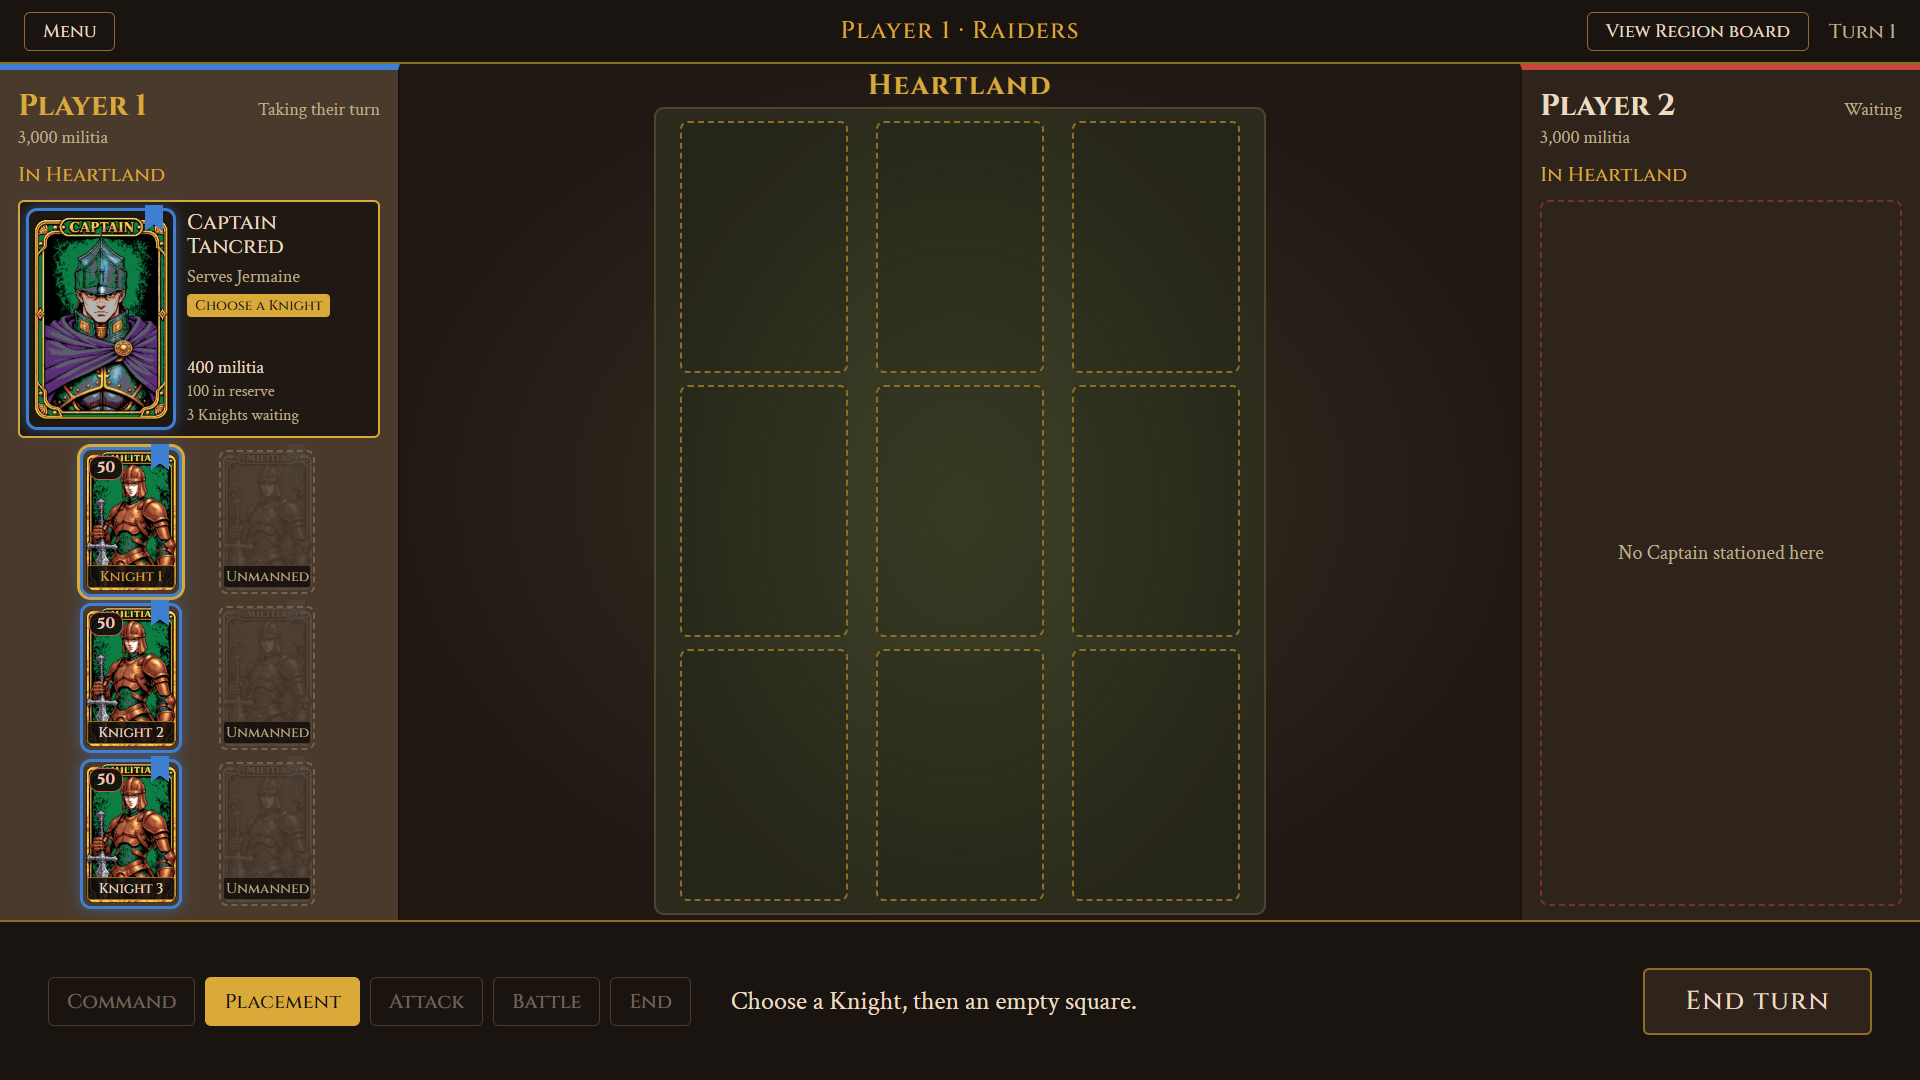
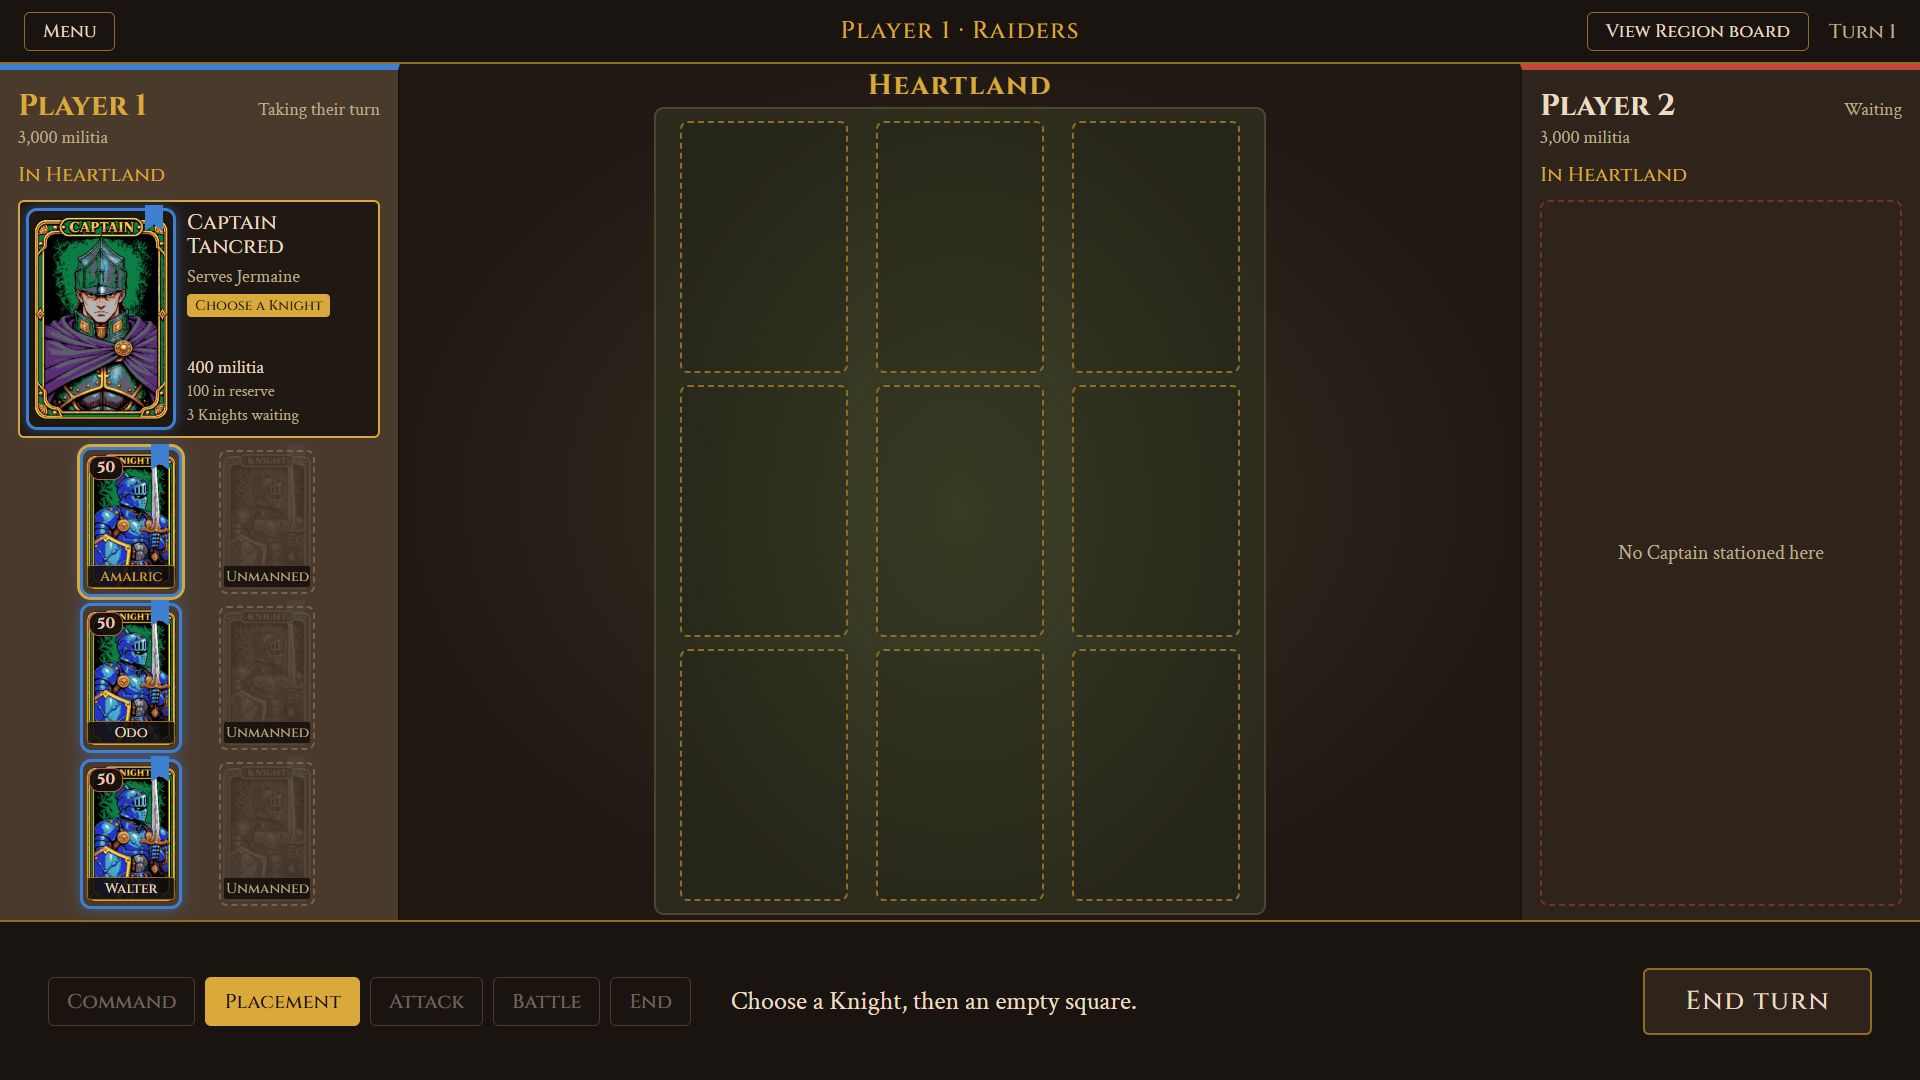
Add Knight cards and names
- Player 1's Knights use the blue Knight card; the enemy's use it with red
  armor and a crimson frame, mirrored to face inward, banner unmirrored
- Every Knight has a placeholder name (Sir Gareth, Sir Sorn...) shown on
  cards, panels, attack preview, battle messages and the turn summary
- In battle the two Knights always face each other, whichever side attacks
- Design templates refreshed

Changed region(s): [[0.0312, 0.3972, 0.0938, 0.825]]

diff --git a/src/ui/battle/BattleView.tsx b/src/ui/battle/BattleView.tsx
@@ -1,7 +1,7 @@
 import { useEffect, useState } from 'react';
 import { availableSergeants } from '../../engine/queries';
 import { KNIGHT_HP, type Clash, type Duel, type DuelRole, type MatchState, type Sergeant } from '../../engine/state';
-import { PLAYER_NAMES, REGION_NAMES, TACTIC_NAMES, captainName } from '../../data/names';
+import { PLAYER_NAMES, REGION_NAMES, TACTIC_NAMES, captainName, knightArtFacing, knightName } from '../../data/names';
 import { Card } from '../components/Card';
 import { SergeantBox, TacticLegend, type SergeantBoxState } from '../components/SergeantBox';
 import { TacticIcon } from '../components/TacticIcon';
@@ -152,10 +152,10 @@ function Combatant({ match, duel, role, upTo, current, options, onPick }: Combat
 
       <div className="combatant__body">
         <div className={`combatant__card${hp <= 0 ? ' combatant__card--fallen' : ''}`}>
-          <Card art="militia" size="detail" owner={side.player} />
+          <Card art={knightArtFacing(side.player, role === 'attacker' ? 'right' : 'left')} size="detail" owner={side.player} />
         </div>
         <div className="combatant__info">
-          <span className="combatant__name">Knight {knight.number}</span>
+          <span className="combatant__name">{knightName(knight)}</span>
           <span className="combatant__sub">
             {PLAYER_NAMES[side.player]} · {captainName(captain)}
           </span>
@@ -190,7 +190,7 @@ function CenterPanel({ match, duel, phase, clash, clashNumber, enemyReady, onRet
     return (
       <div className="battle-msg battle-msg--intro">
         <span className="battle-msg__big">
-          Knight {attacker.number} attacks Knight {defender.number}!
+          {knightName(attacker)} attacks {knightName(defender)}!
         </span>
         <span className="battle-msg__small">
           {PLAYER_NAMES[duel.attacker.player]} against {PLAYER_NAMES[duel.defender.player]}
@@ -219,7 +219,7 @@ function CenterPanel({ match, duel, phase, clash, clashNumber, enemyReady, onRet
           <RevealedPick pick={clash.defender} winner={phase === 'result' && clash.winner === 'defender'} />
         </div>
         <span className={`battle-msg__small${phase === 'result' ? ' battle-msg__verdict' : ''}`}>
-          {phase === 'reveal' ? 'Revealing…' : verdict(clash, attacker.number, defender.number)}
+          {phase === 'reveal' ? 'Revealing…' : verdict(clash, knightName(attacker), knightName(defender))}
         </span>
       </div>
     );
@@ -234,14 +234,14 @@ function CenterPanel({ match, duel, phase, clash, clashNumber, enemyReady, onRet
       <div className="battle-msg battle-msg--over">
         <span className="battle-msg__big">
           {winnerKnight
-            ? `${PLAYER_NAMES[duel[winner!].player]}’s Knight ${winnerKnight.number} wins!`
+            ? `${knightName(winnerKnight)} wins!`
             : 'The battle ends even'}
         </span>
         <span className="battle-msg__small">
           {loserKnight
             ? loserFate === 'killed'
-              ? `${PLAYER_NAMES[loserSide.player]}’s Knight ${loserKnight.number} has fallen.`
-              : `${PLAYER_NAMES[loserSide.player]}’s Knight ${loserKnight.number} retreats with ${loserKnight.hp} HP.`
+              ? `${PLAYER_NAMES[loserSide.player]}’s ${knightName(loserKnight)} has fallen.`
+              : `${PLAYER_NAMES[loserSide.player]}’s ${knightName(loserKnight)} retreats with ${loserKnight.hp} HP.`
             : 'The defender holds; both Knights keep their squares.'}
         </span>
         <button className="btn btn--primary" onClick={onReturn} autoFocus>
@@ -271,8 +271,8 @@ function RevealedPick({ pick, winner }: { pick: Clash['attacker']; winner: boole
   );
 }
 
-function verdict(clash: Clash, attackerNumber: number, defenderNumber: number): string {
-  const target = clash.winner === 'attacker' ? `Knight ${defenderNumber}` : `Knight ${attackerNumber}`;
+function verdict(clash: Clash, attackerName: string, defenderName: string): string {
+  const target = clash.winner === 'attacker' ? defenderName : attackerName;
   if (clash.winner === 'tie') {
     return `Both sent ${TACTIC_NAMES[clash.attacker!.tactic]}: each Sergeant loses half their men.`;
   }

diff --git a/src/data/names.ts b/src/data/names.ts
@@ -1,5 +1,5 @@
 // Display names. Placeholder wording until factions and the Muster screen exist.
-import type { Captain, LordClass, PlayerId, RegionIndex, Tactic } from '../engine/state';
+import type { Captain, Knight, LordClass, PlayerId, RegionIndex, Tactic } from '../engine/state';
 import type { ArtId } from './artCatalog';
 
 export const PLAYER_NAMES: Record<PlayerId, string> = {
@@ -95,8 +95,52 @@ export const TACTIC_NAMES: Record<Tactic, string> = {
   counter: 'Counter',
 };
 
-export function knightName(number: number): string {
-  return `Knight ${number}`;
+/**
+ * Placeholder Knight names: 36 per side, one per Knight slot, in
+ * Army, Garrison, Raiders order (Captain I's six, then Captain II's six).
+ */
+const KNIGHT_NAMES: Record<PlayerId, string[]> = {
+  p1: [
+    'Gareth', 'Percival', 'Tristan', 'Gawain', 'Bedivere', 'Galahad',
+    'Bors', 'Lionel', 'Ector', 'Lamorak', 'Pelleas', 'Geraint',
+    'Yvain', 'Erec', 'Owain', 'Caradoc', 'Dinadan', 'Elyan',
+    'Gaheris', 'Hugh', 'Raymond', 'Bohemond', 'Guy', 'Reynald',
+    'Amalric', 'Odo', 'Walter', 'Hubert', 'Giles', 'Aymer',
+    'Roland', 'Oliver', 'Turpin', 'Ogier', 'Renaud', 'Thierry',
+  ],
+  p2: [
+    'Vargus', 'Morvane', 'Thrax', 'Dravic', 'Skarn', 'Vorth',
+    'Grimald', 'Belzor', 'Kazrik', 'Zoltan', 'Malakai', 'Ravik',
+    'Sorn', 'Vex', 'Hargrim', 'Torvald', 'Brakka', 'Drogan',
+    'Kael', 'Murdoc', 'Szar', 'Varn', 'Gorvath', 'Rask',
+    'Zarek', 'Ostrik', 'Fenrik', 'Haldor', 'Krone', 'Vasko',
+    'Grendel', 'Tarvos', 'Mordrek', 'Scathe', 'Ulgar', 'Kresh',
+  ],
+};
+
+const LORD_ORDER: LordClass[] = ['army', 'garrison', 'raiders'];
+
+/** A Knight's own name, e.g. "Gareth". Captain ids look like "p1-army-1". */
+export function knightPersonalName(knight: Pick<Knight, 'owner' | 'captainId' | 'number'>): string {
+  const [, lord, rank] = knight.captainId.split('-');
+  const index = LORD_ORDER.indexOf(lord as LordClass) * 12 + (Number(rank) - 1) * 6 + (knight.number - 1);
+  return KNIGHT_NAMES[knight.owner][index] ?? `Knight ${knight.number}`;
+}
+
+/** "Sir Gareth" */
+export function knightName(knight: Pick<Knight, 'owner' | 'captainId' | 'number'>): string {
+  return `Sir ${knightPersonalName(knight)}`;
+}
+
+/** Player 1's Knights share the blue Knight card; the enemy's share a mirrored red one. */
+export function knightArt(owner: PlayerId): ArtId {
+  return owner === 'p1' ? 'knight' : 'enemyKnight';
+}
+
+/** Knight art facing a given direction, for battles where either side may stand on the left. */
+export function knightArtFacing(owner: PlayerId, facing: 'left' | 'right'): ArtId {
+  if (owner === 'p1') return facing === 'right' ? 'knight' : 'knightFacingLeft';
+  return facing === 'left' ? 'enemyKnight' : 'enemyKnightFacingRight';
 }
 
 export function formatMilitia(n: number): string {

diff --git a/src/ui/campaign/CompanyView.tsx b/src/ui/campaign/CompanyView.tsx
@@ -1,6 +1,15 @@
 import { captainInRegion, captainMilitia, knightsOf, reserveKnights } from '../../engine/queries';
 import type { Knight, MatchState, PlayerId, RegionIndex } from '../../engine/state';
-import { REGION_NAMES, captainArt, captainName, formatMilitia, lordPersona } from '../../data/names';
+import {
+  REGION_NAMES,
+  captainArt,
+  captainName,
+  formatMilitia,
+  knightArt,
+  knightName,
+  knightPersonalName,
+  lordPersona,
+} from '../../data/names';
 import { Card } from '../components/Card';
 import './companyView.css';
 
@@ -13,7 +22,7 @@ interface CompanyViewProps {
 }
 
 const SLOT_LABEL: Record<Knight['status'], (k: Knight) => string> = {
-  ready: (k) => `Knight ${k.number}`,
+  ready: (k) => knightPersonalName(k),
   fielded: () => 'Fielded',
   unmanned: () => 'Unmanned',
   dead: () => 'Fallen',
@@ -78,9 +87,9 @@ export function CompanyView({ match, player, region, selectedKnightId, onSelectK
                 className={classes}
                 disabled={!pickable}
                 onClick={() => onSelectKnight(knight.id)}
-                aria-label={`Knight ${knight.number}: ${SLOT_LABEL[knight.status](knight)}${alive ? `, ${knight.hp} HP` : ''}`}
+                aria-label={`${knightName(knight)}: ${SLOT_LABEL[knight.status](knight)}${alive ? `, ${knight.hp} HP` : ''}`}
               >
-                <Card art="militia" size="company" owner={player}>
+                <Card art={knightArt(player)} size="company" owner={player}>
                   {alive && <span className="hp-badge">{knight.hp}</span>}
                   <span className="knight-slot__label">{SLOT_LABEL[knight.status](knight)}</span>
                 </Card>

diff --git a/src/ui/campaign/RegionView.tsx b/src/ui/campaign/RegionView.tsx
@@ -1,6 +1,6 @@
 import { attackTargets, knightAt, legalSquares } from '../../engine/queries';
 import { SQUARES, type MatchState, type RegionIndex, type SquareIndex } from '../../engine/state';
-import { PLAYER_NAMES, REGION_NAMES } from '../../data/names';
+import { PLAYER_NAMES, REGION_NAMES, knightArt, knightName, knightPersonalName } from '../../data/names';
 import { Card } from '../components/Card';
 import './regionView.css';
 
@@ -42,7 +42,7 @@ export function RegionView({ match, region, selectedKnightId, onPlaceKnight, onC
             .filter(Boolean)
             .join(' ');
           const label = knight
-            ? `Knight ${knight.number} of ${PLAYER_NAMES[knight.owner]}, ${knight.hp} HP${isTarget ? ', attack' : ''}`
+            ? `${knightName(knight)} of ${PLAYER_NAMES[knight.owner]}, ${knight.hp} HP${isTarget ? ', attack' : ''}`
             : isLegal
               ? 'Place Knight here'
               : 'Empty square';
@@ -55,9 +55,9 @@ export function RegionView({ match, region, selectedKnightId, onPlaceKnight, onC
               aria-label={label}
             >
               {knight && (
-                <Card art="militia" size="field" owner={knight.owner}>
+                <Card art={knightArt(knight.owner)} size="field" owner={knight.owner}>
                   <span className="hp-badge">{knight.hp}</span>
-                  <span className="knight-plate">Knight {knight.number}</span>
+                  <span className="knight-plate">{knightPersonalName(knight)}</span>
                   {isTarget && <span className="attack-marker">Attack</span>}
                 </Card>
               )}

diff --git a/src/data/artCatalog.ts b/src/data/artCatalog.ts
@@ -5,6 +5,10 @@ import nevadius from '../assets/cards/lords/nevadius.png';
 import enemyLord from '../assets/cards/lords/enemy-lord.png';
 import captain from '../assets/cards/captains/captain.png';
 import enemyCaptain from '../assets/cards/captains/enemy-captain.png';
+import knight from '../assets/cards/knights/knight.png';
+import enemyKnight from '../assets/cards/knights/enemy-knight.png';
+import knightFacingLeft from '../assets/cards/knights/knight-facing-left.png';
+import enemyKnightFacingRight from '../assets/cards/knights/enemy-knight-facing-right.png';
 
 /**
  * Every card image the game knows about. Code refers to art by id, never by
@@ -31,6 +35,12 @@ export const artCatalog = {
   captain: { src: captain, face: { x: 50, y: 40, zoom: 3.4 } },
   /** Recolored crimson and mirrored to face inward from the enemy side. */
   enemyCaptain: { src: enemyCaptain, face: { x: 39, y: 40, zoom: 3.4 } },
+  knight: { src: knight, face: { x: 51, y: 24, zoom: 3.4 } },
+  /** Recolored (red armor, crimson frame) and mirrored to face inward from the enemy side. */
+  enemyKnight: { src: enemyKnight, face: { x: 49, y: 24, zoom: 3.4 } },
+  /** Facing variants, so Knights face each other in battle whichever side attacks. */
+  knightFacingLeft: { src: knightFacingLeft, face: { x: 49, y: 24, zoom: 3.4 } },
+  enemyKnightFacingRight: { src: enemyKnightFacingRight, face: { x: 51, y: 24, zoom: 3.4 } },
 } satisfies Record<string, ArtEntry>;
 
 export type ArtId = keyof typeof artCatalog;

diff --git a/src/ui/battle/AttackPreview.tsx b/src/ui/battle/AttackPreview.tsx
@@ -1,5 +1,5 @@
 import type { Knight, MatchState } from '../../engine/state';
-import { PLAYER_NAMES, captainName } from '../../data/names';
+import { PLAYER_NAMES, captainName, knightArt, knightName } from '../../data/names';
 import { sergeantMilitia } from '../../engine/queries';
 import { Card } from '../components/Card';
 import { SergeantBox, TacticLegend } from '../components/SergeantBox';
@@ -53,9 +53,9 @@ function KnightSummary({ match, knight, role }: { match: MatchState; knight: Kni
     <div className={`knight-summary knight-summary--${knight.owner}`}>
       <span className="knight-summary__role">{role}</span>
       <div className="knight-summary__top">
-        <Card art="militia" size="roster" owner={knight.owner} />
+        <Card art={knightArt(knight.owner)} size="roster" owner={knight.owner} />
         <div className="knight-summary__info">
-          <h3 className="knight-summary__name">Knight {knight.number}</h3>
+          <h3 className="knight-summary__name">{knightName(knight)}</h3>
           <p className="knight-summary__line">{PLAYER_NAMES[knight.owner]}</p>
           <p className="knight-summary__line">{captainName(captain)}</p>
           <p className="knight-summary__hp">

diff --git a/src/ui/campaign/PhaseWindow.tsx b/src/ui/campaign/PhaseWindow.tsx
@@ -1,6 +1,6 @@
 import { actingCaptain, actionableCaptains, attackTargets, canEndTurn } from '../../engine/queries';
 import type { MatchState, RegionIndex } from '../../engine/state';
-import { LORD_NAMES, REGION_NAMES, captainName } from '../../data/names';
+import { LORD_NAMES, REGION_NAMES, captainName, knightName } from '../../data/names';
 import './phaseWindow.css';
 
 const PHASES = [
@@ -108,7 +108,7 @@ function instructionFor(match: MatchState, selectedCaptainId: string | null, foc
     const placed = turn.placedKnightId ? match.knights[turn.placedKnightId] : undefined;
     const n = attackTargets(match).length;
     return focusedRegion === captain?.region
-      ? `Knight ${placed?.number} can attack ${n === 1 ? 'the enemy Knight' : 'an enemy Knight'} next to it, or press End turn.`
+      ? `${placed ? knightName(placed) : 'Your Knight'} can attack ${n === 1 ? 'the enemy Knight' : 'an enemy Knight'} next to it, or press End turn.`
       : `Enter ${where} to attack, or End turn.`;
   }
   if (match.duel?.outcome) return 'Battle fought. Press End turn when ready.';

diff --git a/src/ui/screens/MatchScreen.tsx b/src/ui/screens/MatchScreen.tsx
@@ -3,7 +3,7 @@ import { useAppStore } from '../../store/appStore';
 import { useMatchStore } from '../../store/matchStore';
 import { actingCaptain, regionsOpenTo } from '../../engine/queries';
 import type { LordClass, RegionIndex } from '../../engine/state';
-import { LORD_NAMES, PLAYER_NAMES, REGION_NAMES, captainName } from '../../data/names';
+import { LORD_NAMES, PLAYER_NAMES, REGION_NAMES, captainName, knightName } from '../../data/names';
 import { PlayerPanel } from '../campaign/PlayerPanel';
 import { RegionBoard } from '../campaign/RegionBoard';
 import { RegionView } from '../campaign/RegionView';
@@ -94,7 +94,7 @@ export function MatchScreen() {
     : '';
   const noticeDetail =
     placedKnight && acting && acting.region !== null
-      ? `${captainName(acting)} placed Knight ${placedKnight.number} in ${REGION_NAMES[acting.region]}${battleNote}`
+      ? `${captainName(acting)} placed ${knightName(placedKnight)} in ${REGION_NAMES[acting.region]}${battleNote}`
       : turn
         ? `The ${LORD_NAMES[turn.lord]} had no orders to give`
         : '';

diff --git a/src/ui/campaign/RegionBoard.tsx b/src/ui/campaign/RegionBoard.tsx
@@ -1,6 +1,6 @@
 import { captainInRegion, knightAt } from '../../engine/queries';
 import { REGIONS, SQUARES, type MatchState, type PlayerId, type RegionIndex } from '../../engine/state';
-import { PLAYER_NAMES, REGION_NAMES, captainArt, captainName } from '../../data/names';
+import { PLAYER_NAMES, REGION_NAMES, captainArt, captainName, knightArt } from '../../data/names';
 import { Portrait } from '../components/Portrait';
 import './regionBoard.css';
 
@@ -51,7 +51,7 @@ export function RegionBoard({ match, clickable, active, choosing, onClickRegion,
               {SQUARES.map((square) => {
                 const knight = knightAt(match, region, square);
                 return knight ? (
-                  <Portrait key={square} art="militia" size={50} owner={knight.owner} />
+                  <Portrait key={square} art={knightArt(knight.owner)} size={50} owner={knight.owner} />
                 ) : (
                   <span key={square} className="region__map-square" />
                 );

diff --git a/docs/DECISIONS.md b/docs/DECISIONS.md
@@ -19,7 +19,9 @@ Lord classes: Army, Garrison, Raiders. Each player has one Lord of each.
 
 The Lords are characters with their own card art: **Aubrey** (Army), **Nevadius** (Garrison) and **Jermaine** (Raiders). The opponent (Player 2) uses one generic **Enemy Lord** card for all three of their Lords, recolored crimson (shown as "Enemy Lord of the Army" and so on).
 
-Captains have placeholder names, two per Lord (Player 1: Roderic, Godfrey, Edmund, Baldwin, Tancred, Alaric; enemy: Malric, Draven, Mordaunt, Varek, Corvin, Sauvic), set in `src/data/names.ts`. Player 1's Captains share one Captain card; the enemy's share a generic Captain card recolored crimson and mirrored to face inward from the right (the banner lettering is kept unmirrored). Which Lord leads which class is set in `src/data/names.ts` (`LORD_PERSONAS`).
+Captains have placeholder names, two per Lord (Player 1: Roderic, Godfrey, Edmund, Baldwin, Tancred, Alaric; enemy: Malric, Draven, Mordaunt, Varek, Corvin, Sauvic), set in `src/data/names.ts`. Player 1's Captains share one Captain card; the enemy's share a generic Captain card recolored crimson and mirrored to face inward from the right (the banner lettering is kept unmirrored).
+
+Knights have placeholder names, shown as "Sir Gareth" (36 per side, set in `src/data/names.ts`). Player 1's Knights use the blue Knight card; the enemy's use the same Knight with red armor and a crimson frame, mirrored to face inward. In battle the Knights always face each other, using left- and right-facing versions of each card. Which Lord leads which class is set in `src/data/names.ts` (`LORD_PERSONAS`).
 
 "Campaign" in scope notes means a story mode across several matches. The Region board itself (with Ultimate Tic-Tac-Toe routing) is the core of every match.
 
